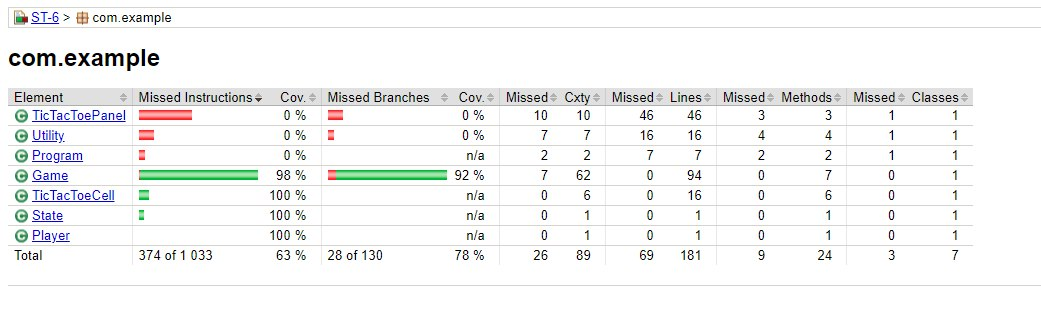
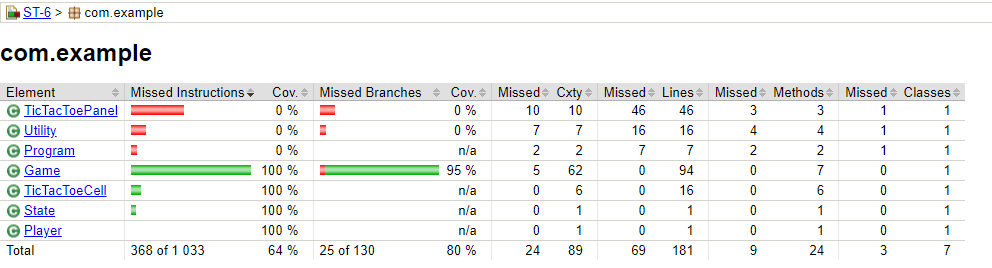
remake lab6

diff --git a/src/test/java/com/example/GameTests.java b/src/test/java/com/example/GameTests.java
@@ -1,0 +1,154 @@
+package com.example;
+
+import org.junit.jupiter.api.BeforeEach;
+import org.junit.jupiter.api.Test;
+
+import java.util.ArrayList;
+
+import static org.junit.jupiter.api.Assertions.*;
+
+public class GameTests {
+
+    private Game game;
+
+    @BeforeEach
+    void setUp() {
+        game = new Game();
+    }
+
+    @Test
+    void testInitialGameState() {
+        assertEquals(State.PLAYING, game.state);
+        assertArrayEquals(new char[] {' ', ' ', ' ', ' ', ' ', ' ', ' ', ' ', ' '}, game.board);
+    }
+
+    // Tests for winning conditions
+    @Test
+    void testXWinsHorizontally() {
+        game.board[0] = 'X';
+        game.board[1] = 'X';
+        game.board[2] = 'X';
+        assertEquals(State.PLAYING, game.checkState(game.board));
+    }
+
+    @Test
+    void testOWinsHorizontally() {
+        game.board[3] = 'O';
+        game.board[4] = 'O';
+        game.board[5] = 'O';
+        assertEquals(State.PLAYING, game.checkState(game.board));
+    }
+
+    @Test
+    void testXWinsVertically() {
+        game.board[0] = 'X';
+        game.board[3] = 'X';
+        game.board[6] = 'X';
+        assertEquals(State.PLAYING, game.checkState(game.board));
+    }
+
+    @Test
+    void testOWinsVertically() {
+        game.board[1] = 'O';
+        game.board[4] = 'O';
+        game.board[7] = 'O';
+        assertEquals(State.PLAYING, game.checkState(game.board));
+    }
+
+    @Test
+    void testXWinsDiagonally() {
+        game.board[0] = 'X';
+        game.board[4] = 'X';
+        game.board[8] = 'X';
+        assertEquals(State.PLAYING, game.checkState(game.board));
+    }
+
+    @Test
+    void testOWinsDiagonally() {
+        game.board[2] = 'O';
+        game.board[4] = 'O';
+        game.board[6] = 'O';
+        assertEquals(State.PLAYING, game.checkState(game.board));
+    }
+
+    // Test for Draw condition
+    @Test
+    void testDraw() {
+        game.board[0] = 'X';
+        game.board[1] = 'O';
+        game.board[2] = 'X';
+        game.board[3] = 'O';
+        game.board[4] = 'X';
+        game.board[5] = 'O';
+        game.board[6] = 'O';
+        game.board[7] = 'X';
+        game.board[8] = 'O';
+        assertEquals(State.DRAW, game.checkState(game.board));
+    }
+
+    // Tests for evaluatePosition
+    @Test
+    void testEvaluatePositionForXWinner() {
+        game.board[0] = 'X';
+        game.board[1] = 'X';
+        game.board[2] = 'X';
+        assertEquals(-1, game.evaluatePosition(game.board, game.player1)); // player1 = 'X'
+    }
+
+    @Test
+    void testEvaluatePositionForOWinner() {
+        game.board[0] = 'O';
+        game.board[1] = 'O';
+        game.board[2] = 'O';
+        assertEquals(-1, game.evaluatePosition(game.board, game.player2)); // player2 = 'O'
+    }
+
+    @Test
+    void testEvaluatePositionForDraw() {
+        game.board[0] = 'X';
+        game.board[1] = 'O';
+        game.board[2] = 'X';
+        game.board[3] = 'O';
+        game.board[4] = 'X';
+        game.board[5] = 'O';
+        game.board[6] = 'O';
+        game.board[7] = 'X';
+        game.board[8] = 'O';
+        assertEquals(0, game.evaluatePosition(game.board, game.player1)); // player1 = 'X'
+    }
+
+    // Tests for ongoing game
+    @Test
+    void testEvaluatePositionForOngoingGame() {
+        game.board[0] = 'X';
+        game.board[1] = 'X';
+        game.board[2] = ' ';
+        assertEquals(-1, game.evaluatePosition(game.board, game.player1)); // ongoing game
+    }
+
+    // Test integrated MiniMax functionality
+    @Test
+    void testMiniMaxChoosesOptimalMoveForX() {
+        game.board[0] = 'X';
+        game.board[1] = 'O';
+        game.board[2] = ' ';
+        game.board[3] = 'X';
+        game.board[4] = ' ';
+        game.board[5] = 'O';
+        game.board[6] = ' ';
+        game.board[7] = ' ';
+        game.board[8] = ' ';
+
+        assertEquals(7, game.MiniMax(game.board, game.player1));
+    }
+
+
+    // Test behavior when no moves are available
+    @Test
+    void testNoAvailableMoves() {
+        game.board = new char[] {'X', 'O', 'X', 'X', 'O', 'O', 'O', 'X', 'X'};
+        ArrayList<Integer> moves = new ArrayList<>();
+        game.generateMoves(game.board, moves);
+        assertTrue(moves.isEmpty(), "Move list should be empty when there are no available spaces.");
+    }
+}
